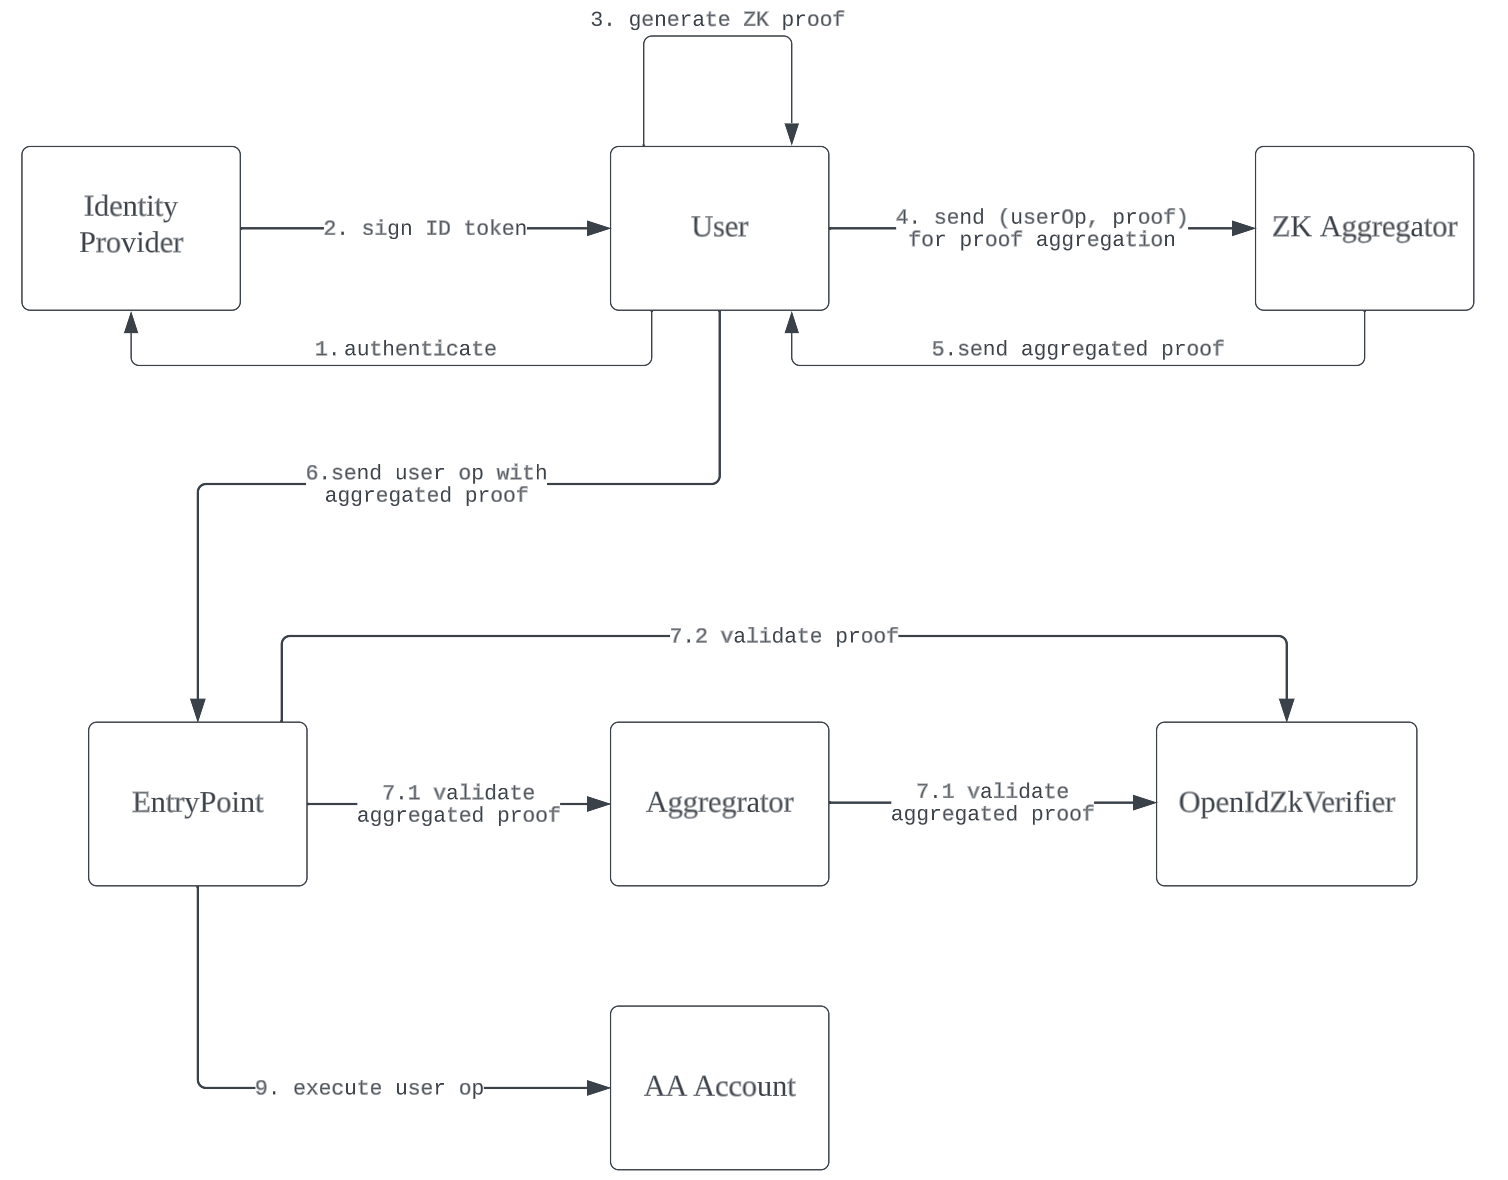
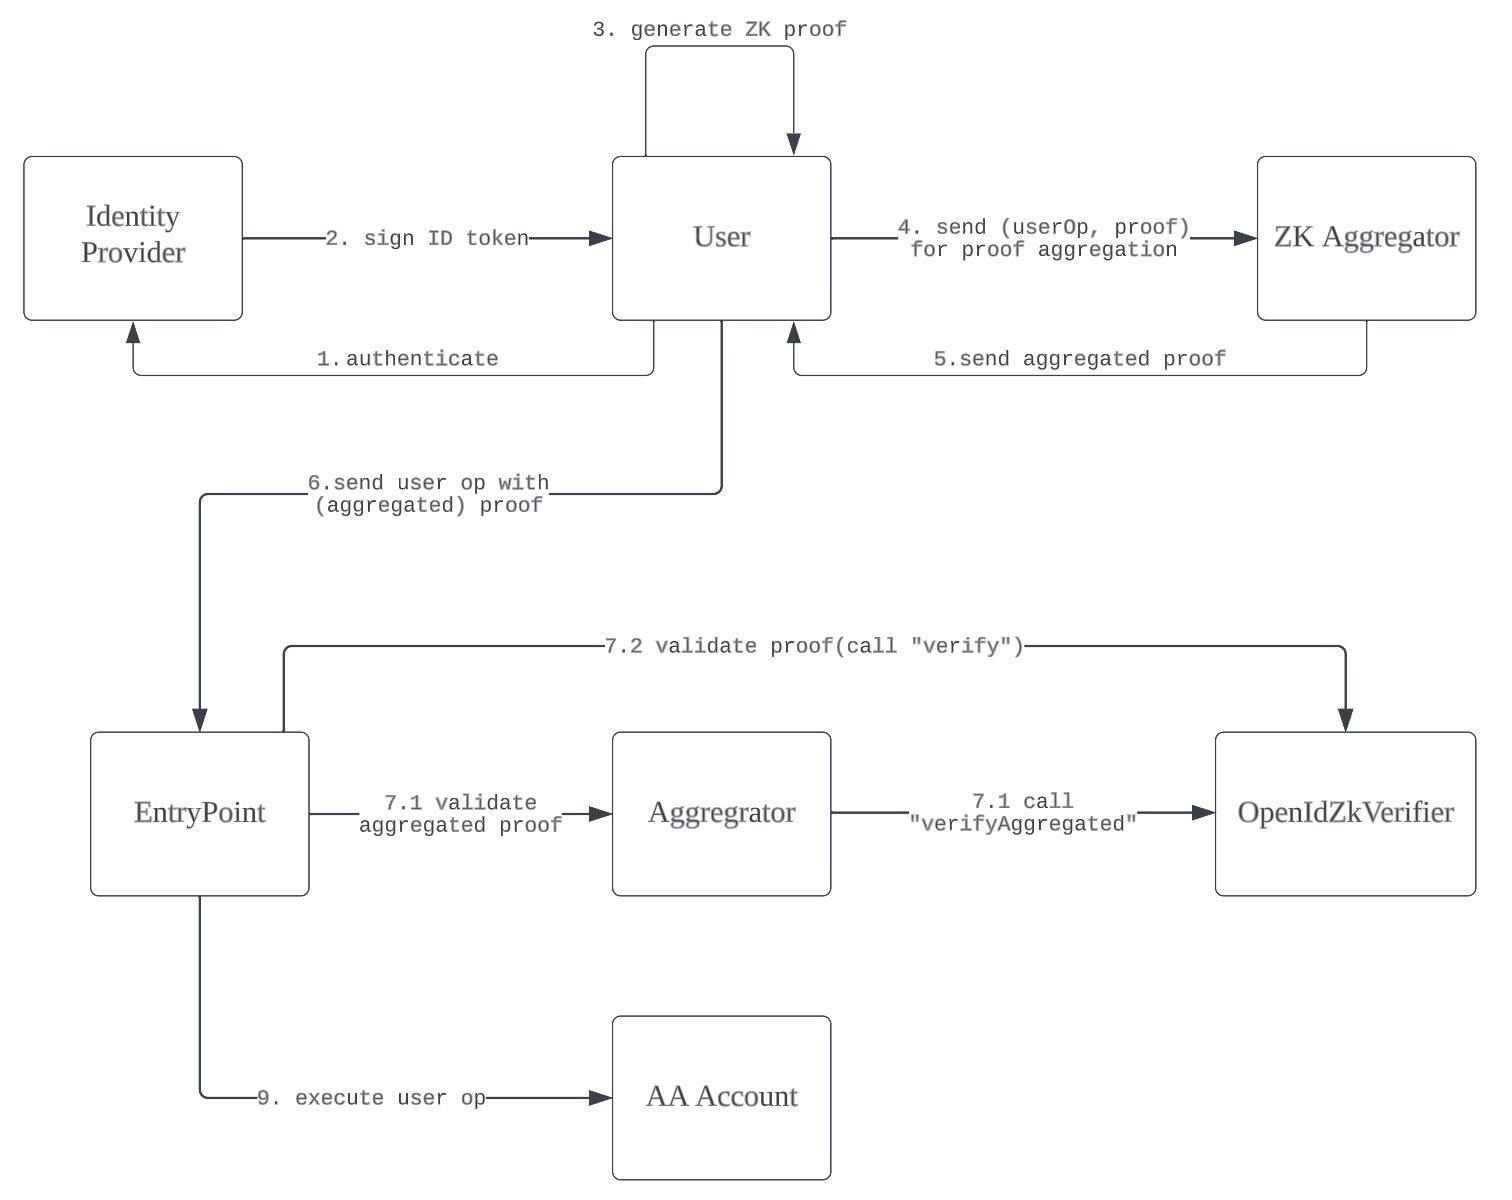
update workflow picture and erc reference

diff --git a/EIPS/eip-7522.md b/EIPS/eip-7522.md
@@ -13,7 +13,7 @@ requires: 4337
 
 ## Abstract
 
-Account Abstraction facilitates new use cases for smart accounts, empowering users with the ability to tailor authentication and recovery mechanisms to their specific needs. To unlock the potential for more convenient verification methods such as social login, we inevitably need to connect smart accounts and OpenID Connect(OIDC), given its status as the most widely accepted authentication protocol. In this EIP, we proposed a [EIP-4337](./eip-4337.md) compatible OIDC ZK verifier. Users can link their ERC-4337 accounts with OIDC identities and authorize an OIDC verifier to validate user operations by verifying the linked OIDC identity on-chain.
+Account Abstraction facilitates new use cases for smart accounts, empowering users with the ability to tailor authentication and recovery mechanisms to their specific needs. To unlock the potential for more convenient verification methods such as social login, we inevitably need to connect smart accounts and OpenID Connect(OIDC), given its status as the most widely accepted authentication protocol. In this EIP, we proposed a [ERC-4337](./eip-4337.md) compatible OIDC ZK verifier. Users can link their ERC-4337 accounts with OIDC identities and authorize an OIDC verifier to validate user operations by verifying the linked OIDC identity on-chain.
 
 ## Motivation
 
